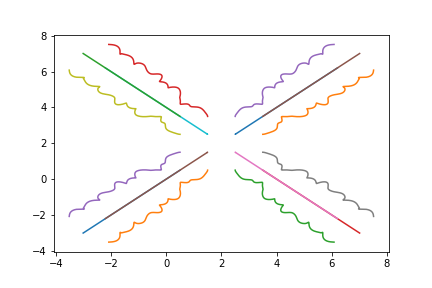
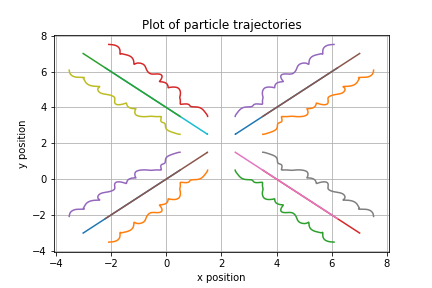
fuck

diff --git a/Lab06/code/Lab06_Q3_b.py b/Lab06/code/Lab06_Q3_b.py
@@ -4,6 +4,12 @@
 Created on Fri Oct 19 01:00:59 2018
 
 @author: Hayden
+
+Program which sets a grid of initial conditions for N=16 particles, and sets
+initial velocity as zero, and then uses the verlet method to time step forward,
+calculating the force and thus acceleration of every particle at each time step
+and recodrding these value to plot them. The value of the total system energy
+is also computed and stored at each step, to be plotted.
 """
 
 #import modules
@@ -33,6 +39,7 @@ xx_grid, yy_grid = np.meshgrid(x_grid, y_grid)
 x_initial = xx_grid.flatten()
 y_initial = yy_grid.flatten()
 
+#set initial values of arrays to be initial conditions
 r_initial = np.zeros((N,2))
 r_initial[:,0] = x_initial
 r_initial[:,1] = y_initial
@@ -92,7 +99,7 @@ def energy(m, r, v):
             d_sq = x*x + y*y
 
             #add the potential from the pair of particles to the total
-            e = 4*epsilon * ((sigma**12)*d_sq**(-6) - (sigma**6)*d_sq**(-3))
+            e = 2*epsilon * ((sigma**12)*d_sq**(-6) - (sigma**6)*d_sq**(-3))
             energy += e
             
         #compute the kinetic energy of each particle
@@ -135,12 +142,19 @@ for i in range(steps-1):
     #calculate the energy at i+1
     epoints[i+1] = energy(m, rpoints[:,:,i+1], vpoints[:,:,2*i+2])
 
-#plot 
+#plot  graph of trajectories
 plt.figure(0)
 for i in range(N):
     plt.plot(rpoints[i,0,:],rpoints[i,1,:])
-
+plt.title('Plot of particle trajectories')
+plt.xlabel('x position')
+plt.ylabel('y position')
+plt.grid()
 plt.savefig('../images/q3_a.png')
 
 plt.figure(1)
 plt.plot(tpoints, epoints)
+plt.title('Total system energy over time')
+plt.xlabel('time')
+plt.ylabel('energy')
+plt.savefig('../images/q3_b.png')

diff --git a/Lab06/code/Lab06_Q2_alt.py b/Lab06/code/Lab06_Q2_alt.py
@@ -103,3 +103,12 @@ plt.ylabel('x position')
 plt.legend(loc='center right')
 plt.savefig('../images/q2_iii_xpos.png')
 
+
+x = np.arange(0.95,3,0.01)
+y = 4*epsilon * (((sigma/x)**12) - ((sigma/x)**6))
+plt.figure(2)
+plt.plot(x,y)
+plt.title('Shape of the Lennard-Jones potential')
+plt.xlabel('r')
+plt.ylabel('V(r)')
+plt.savefig('../images/q2_c.png')
